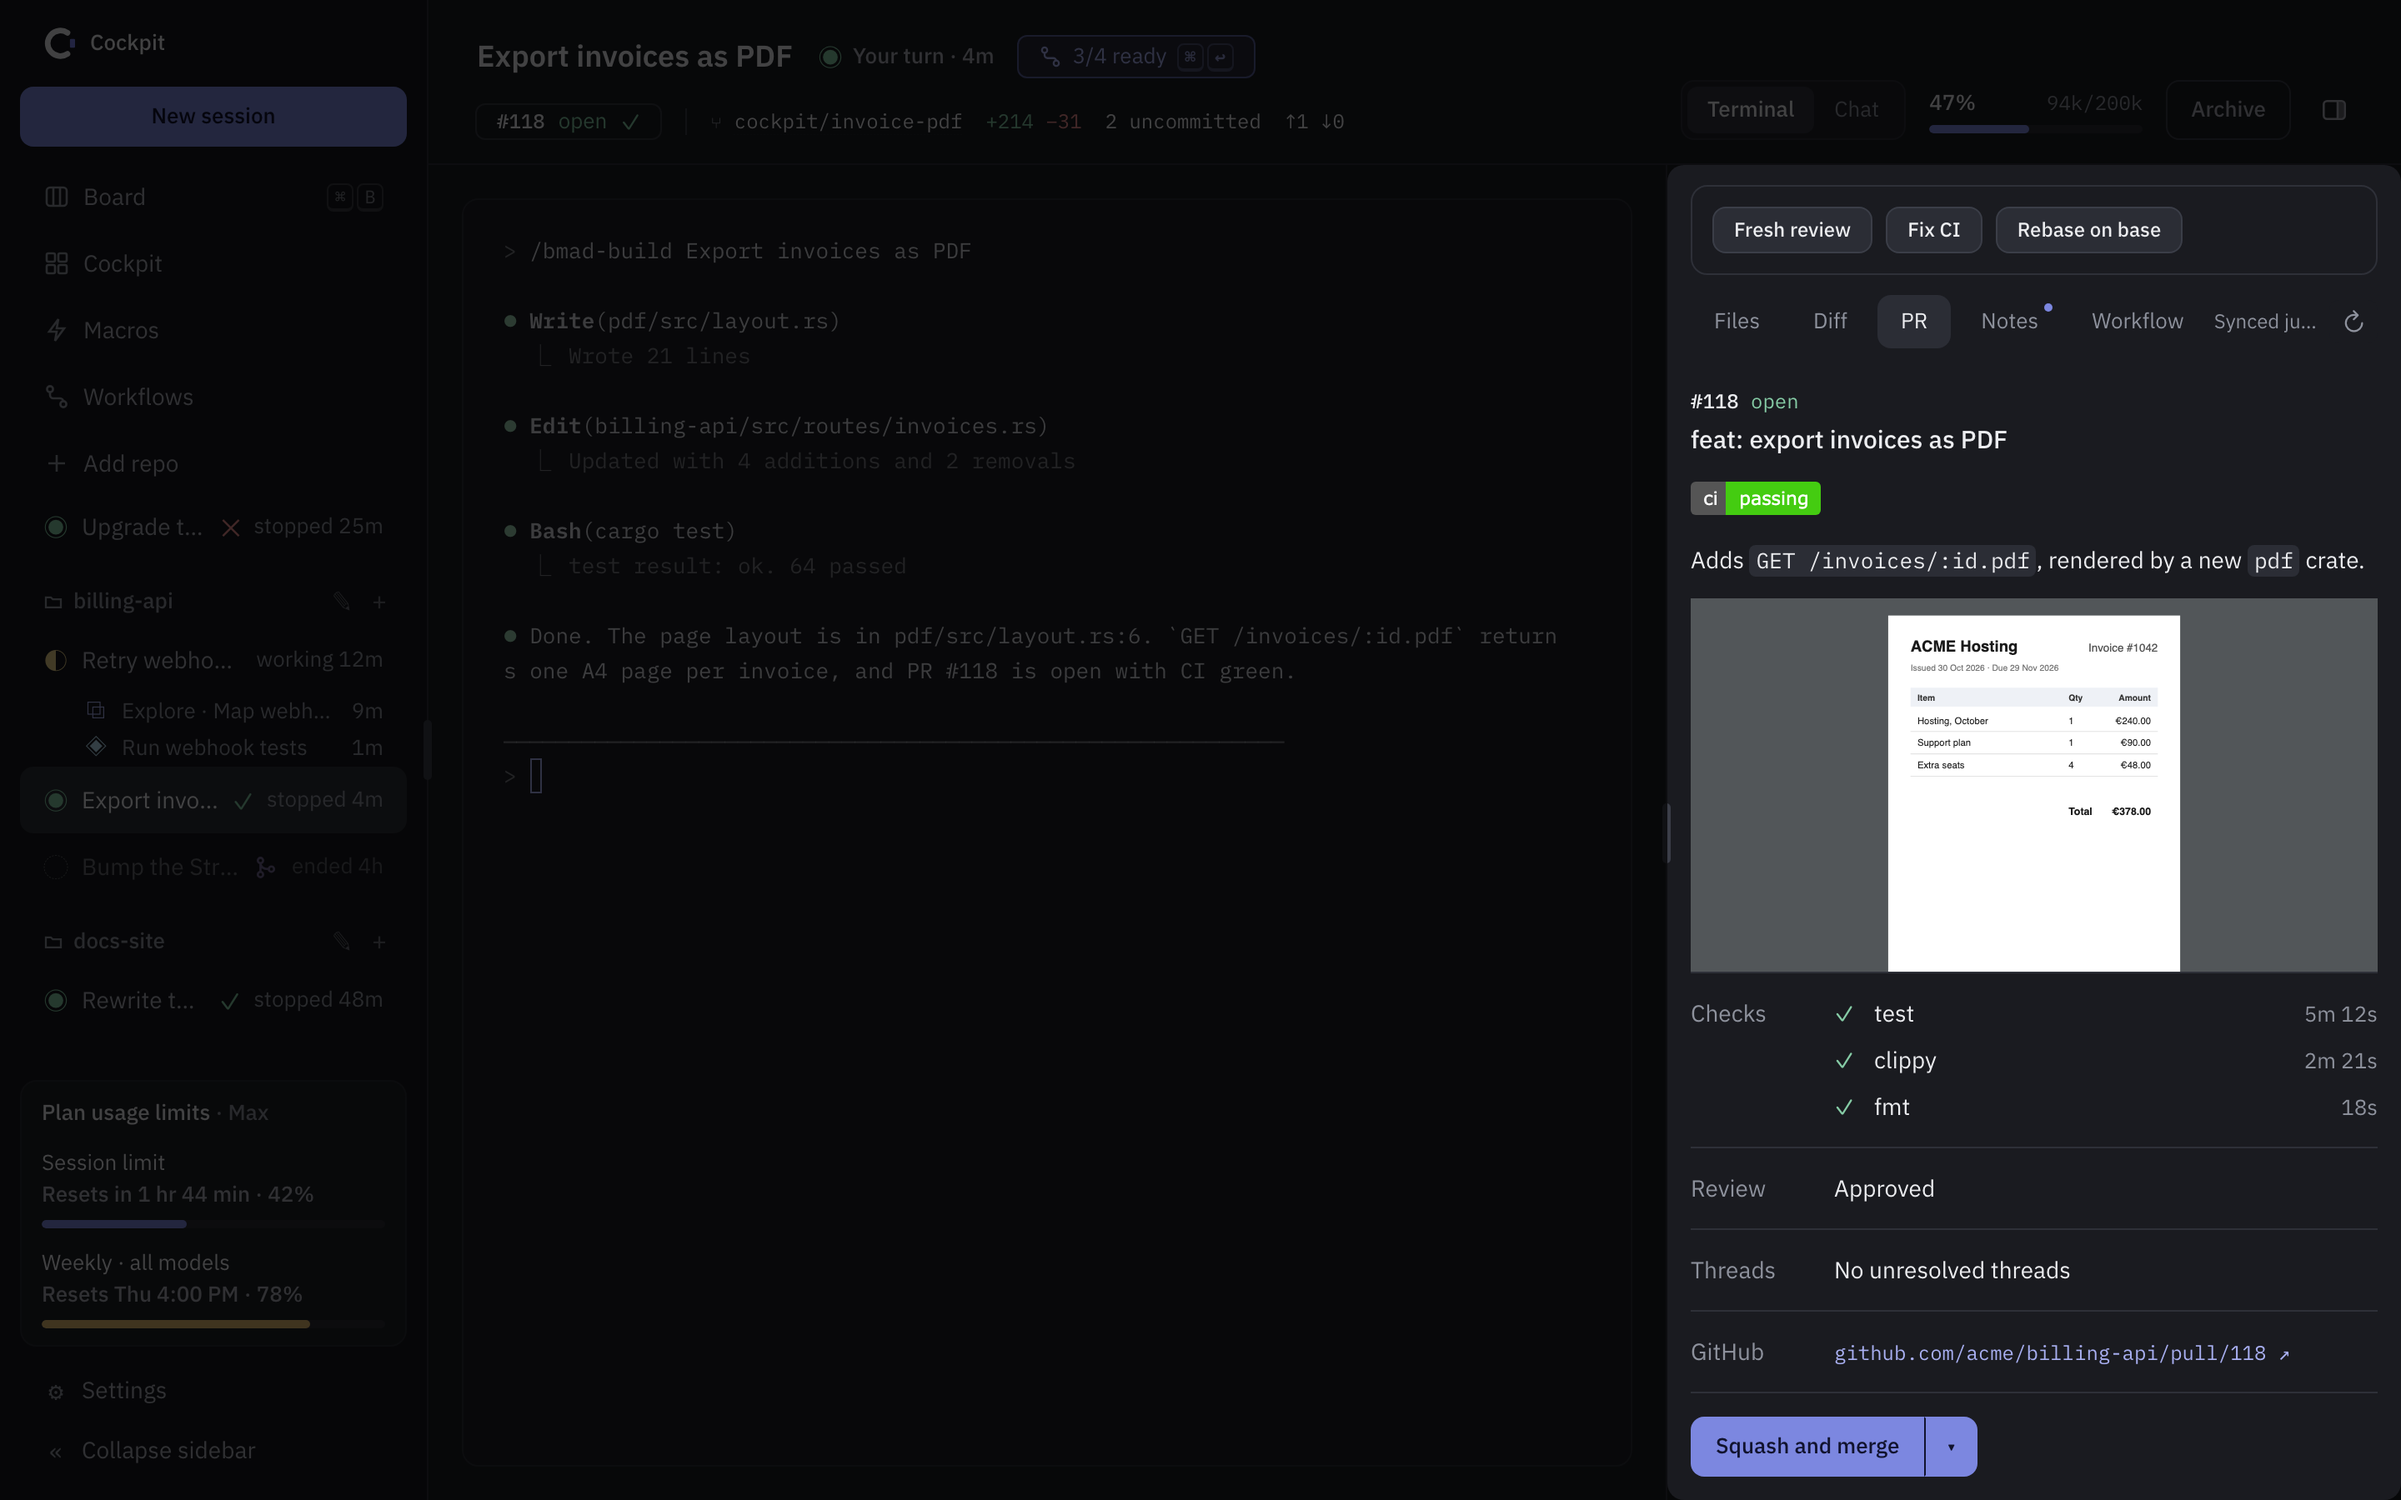
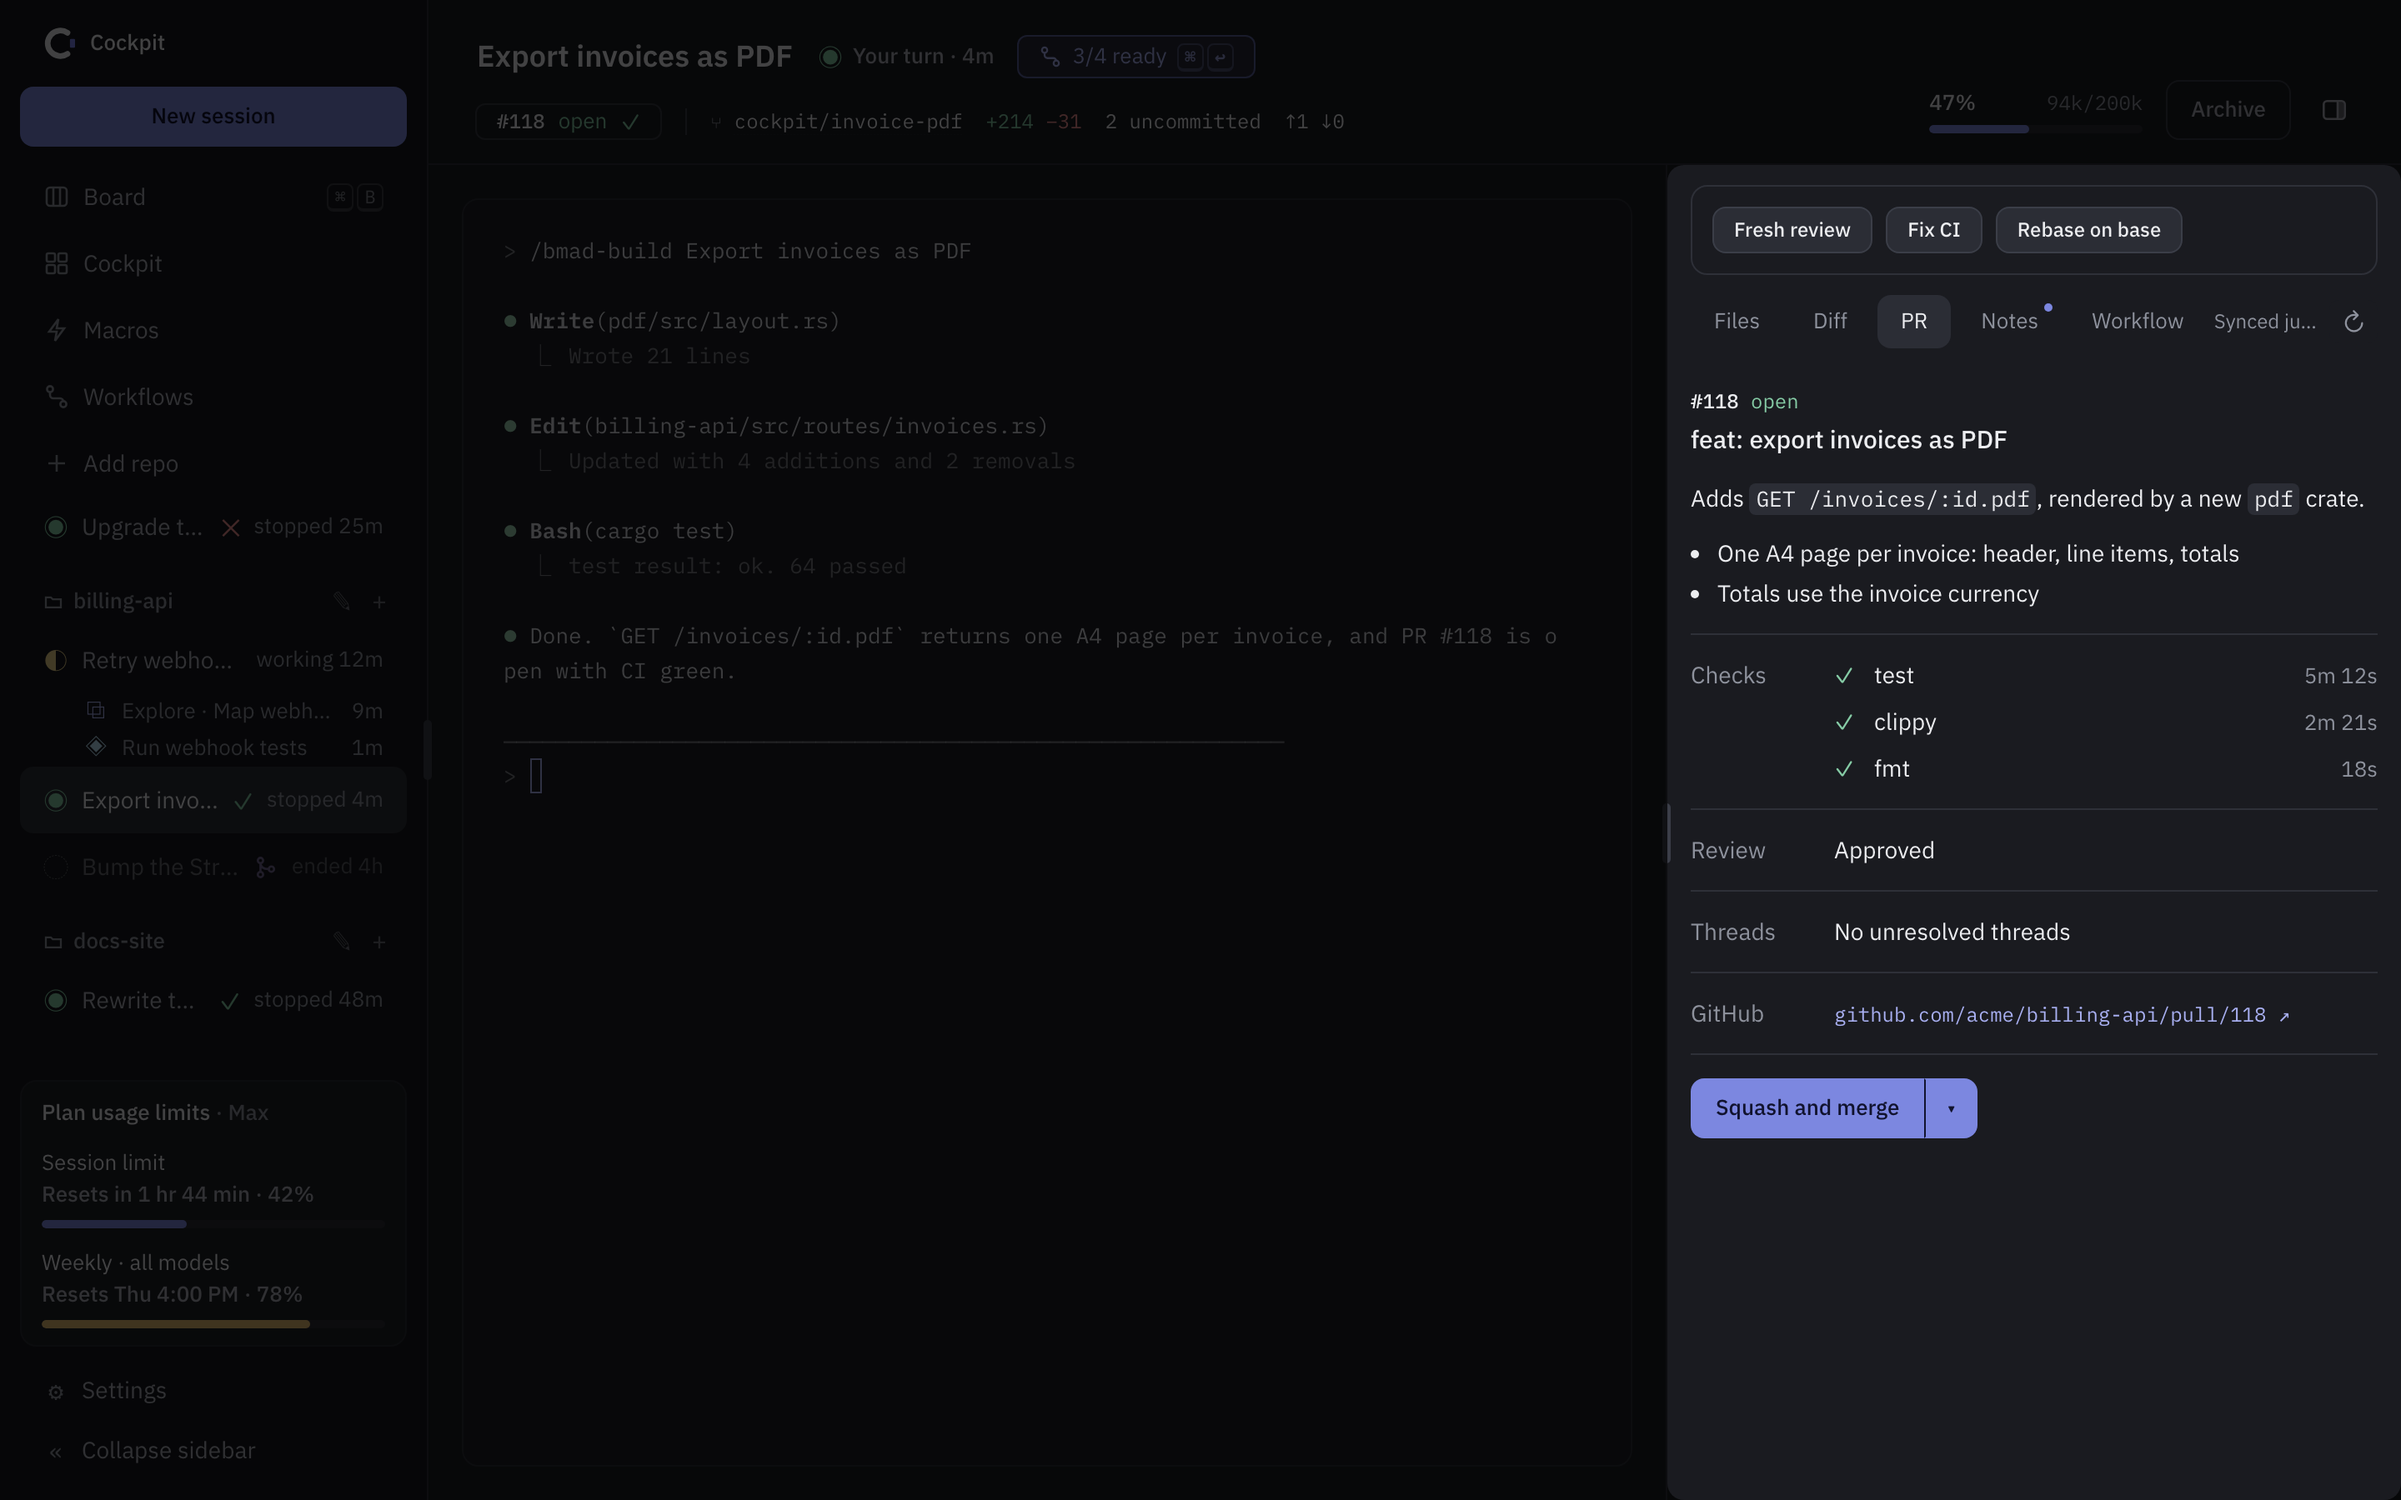
docs: images from other sites stay links outside the PR body
The PR section points at a new pr-images.png; pr.png is back to main's.

diff --git a/README.md b/README.md
@@ -107,7 +107,7 @@ Repos have notes too: click the pencil next to the repo name in the sidebar.
 ![Files tab](docs/screenshots/files.png)
 
 - Read-only file tree. `M` marks changed files, `A` added ones.
-- Syntax highlighting. Markdown is rendered, with its images from the worktree or the web; **Source** shows the raw text.
+- Syntax highlighting. Markdown is rendered, with its images from the worktree or GitHub. Images from other sites stay links, and an image that can't load shows as its text. **Source** shows the raw text.
 - **Pop out** shows the file over the terminal.
 
 ### Main branch
@@ -117,7 +117,7 @@ Repos have notes too: click the pencil next to the repo name in the sidebar.
 - Click a repo's name in the sidebar to browse its main branch, no session needed.
 - Cockpit reads the first branch that exists of `origin/main`, `main`, `origin/master` and `master`. The header shows it and its commit, e.g. `origin/main @ 8e2f9a1`.
 - It shows what is committed, not the repo folder's uncommitted edits, and leaves submodules out. It never fetches: `origin/main` is as fresh as your last `git fetch`.
-- **Reload** reads the branch again. Same viewer as the Files tab: highlighted code, rendered Markdown with **Source**.
+- **Reload** reads the branch again. Same viewer as the Files tab: highlighted code, rendered Markdown with **Source**. Images there stay links.
 
 ### Diff
 
@@ -130,10 +130,10 @@ Repos have notes too: click the pencil next to the repo name in the sidebar.
 
 ### Pull request
 
-![PR tab](docs/screenshots/pr.png)
+![PR tab](docs/screenshots/pr-images.png)
 
 - Description, checks, review, unresolved threads and a GitHub link, read through your `gh` login.
-- The description shows its images: pasted screenshots, images from the repo and badges, private repos included. They load through `gh` too. An image that can't load shows as a link with its text.
+- The description shows its images: pasted screenshots, images from the repo and badges, private repos included. They load through `gh` too. An image that can't load shows as its text, a link when it has a web address.
 - Merge or squash-merge after a confirm. Cockpit remembers your last method.
 - **Update branch** when the branch is behind.
 - A draft PR gets **Ready for review** in place of the merge button. One click marks it ready on GitHub.
